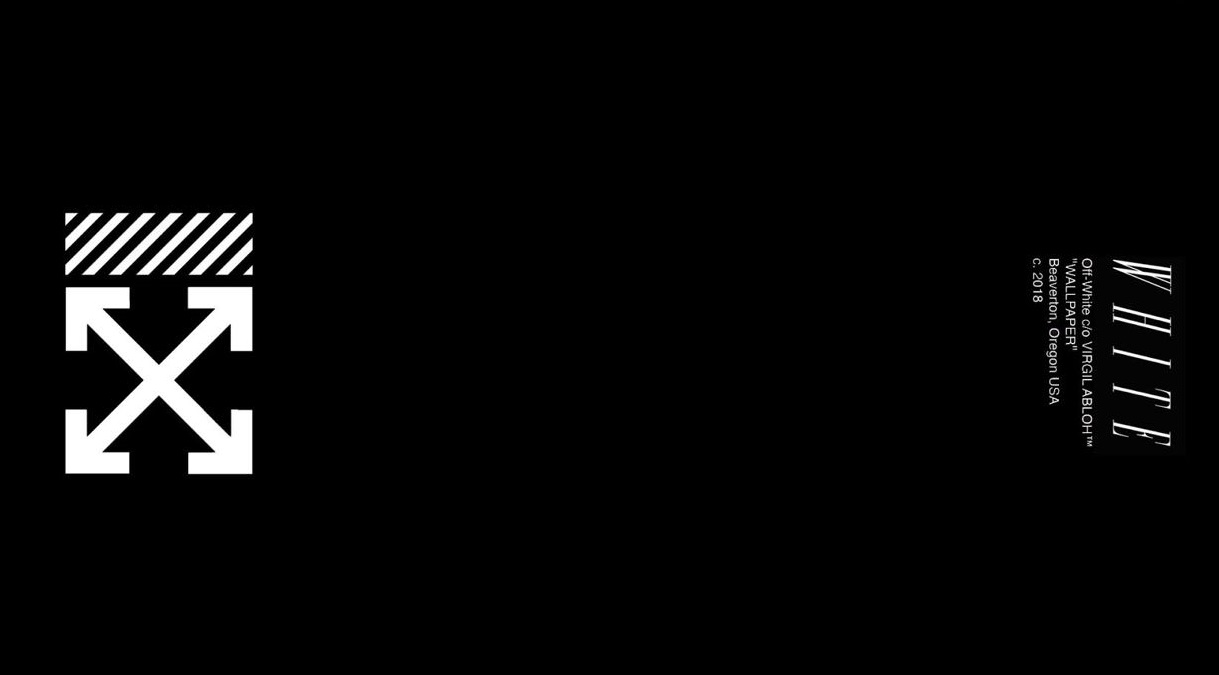
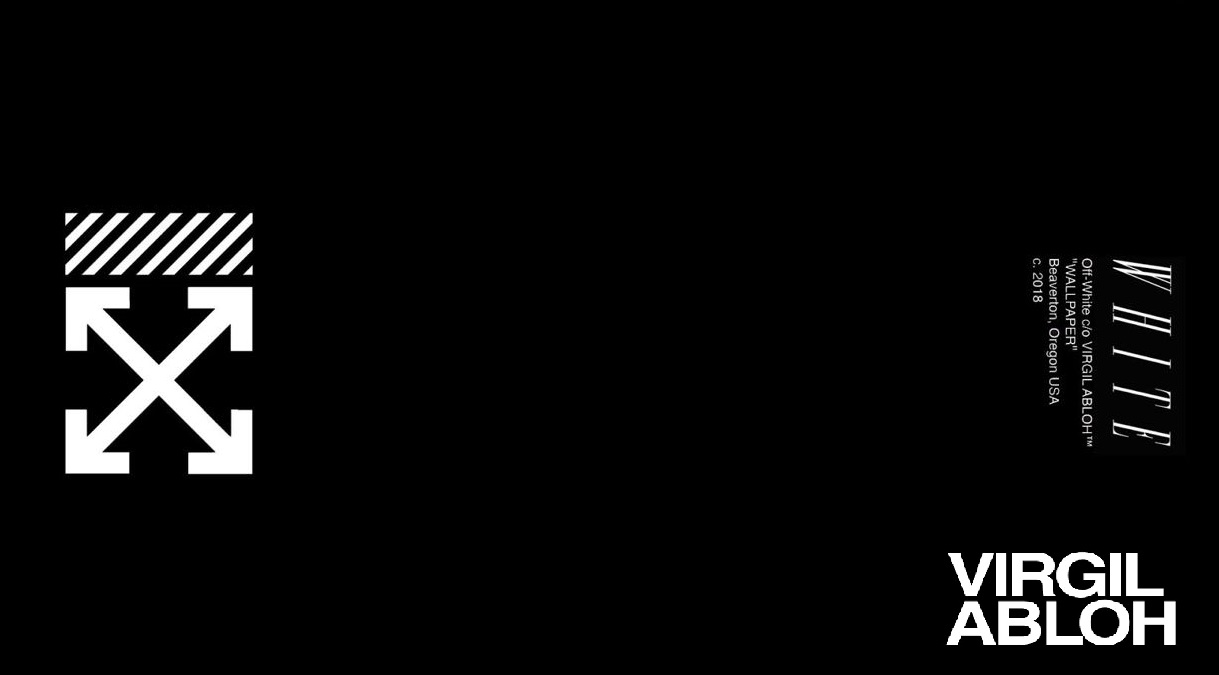
faltando ajustes

Changed region(s): [[0.7793, 0.8089, 0.9664, 0.9644]]

diff --git a/index.html b/index.html
@@ -6,8 +6,9 @@
     <link rel="stylesheet" href="./style.css">
     <link rel="preconnect" href="https://fonts.googleapis.com">
     <link rel="preconnect" href="https://fonts.gstatic.com" crossorigin>
+    <link rel="icon" href="./img/logo2.jpg">
     <link href="https://fonts.googleapis.com/css2?family=Righteous&family=Tiro+Devanagari+Hindi&family=Ubuntu:wght@300;500&display=swap" rel="stylesheet">
-    <title>Galeria</title>
+    <title>Photo Gallery - Virgil Abloh</title>
 </head>
 <body>
     <header>
